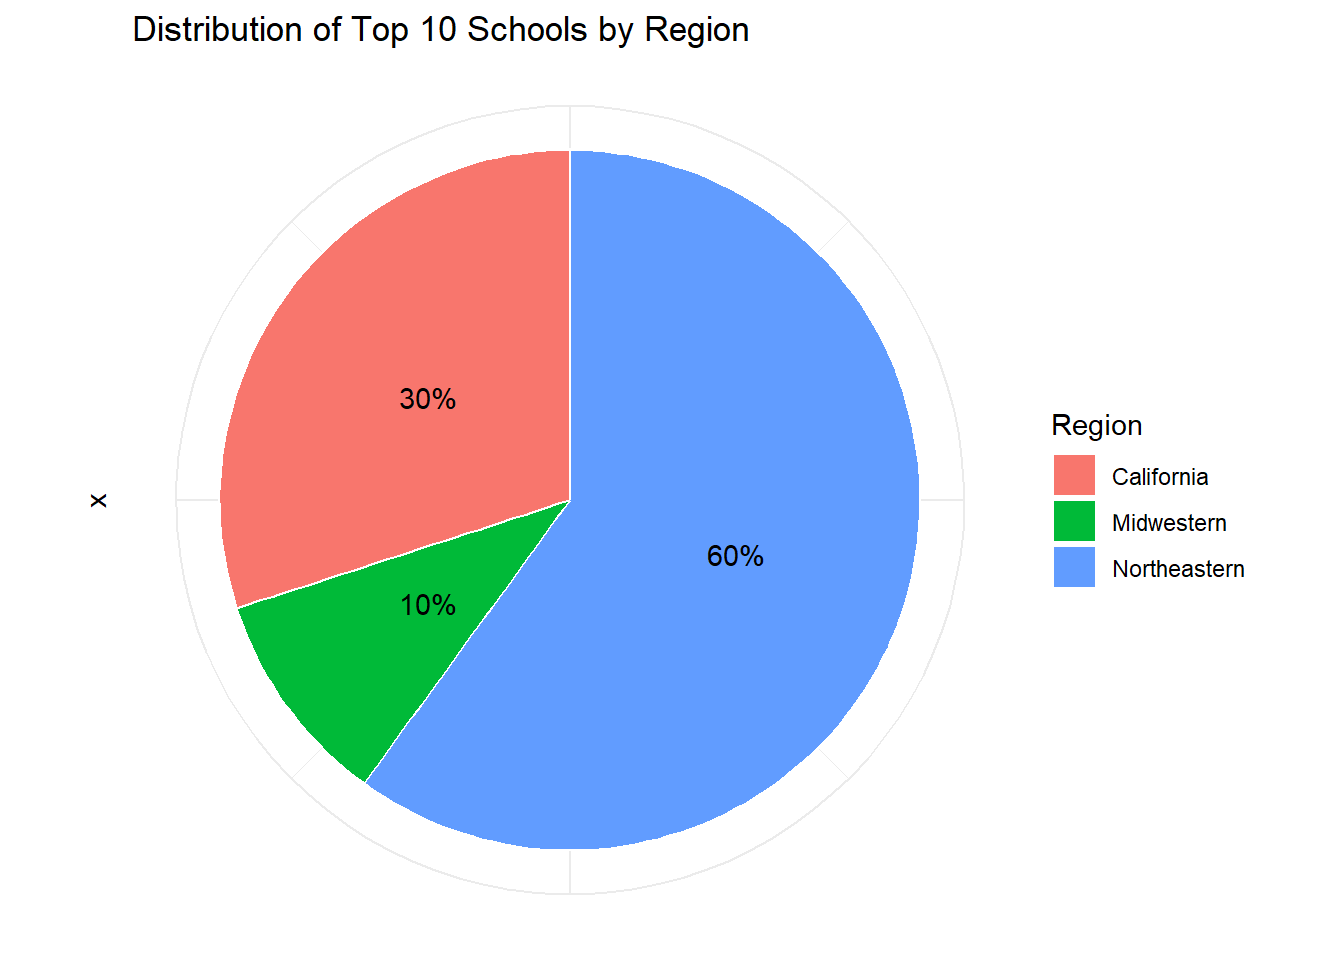
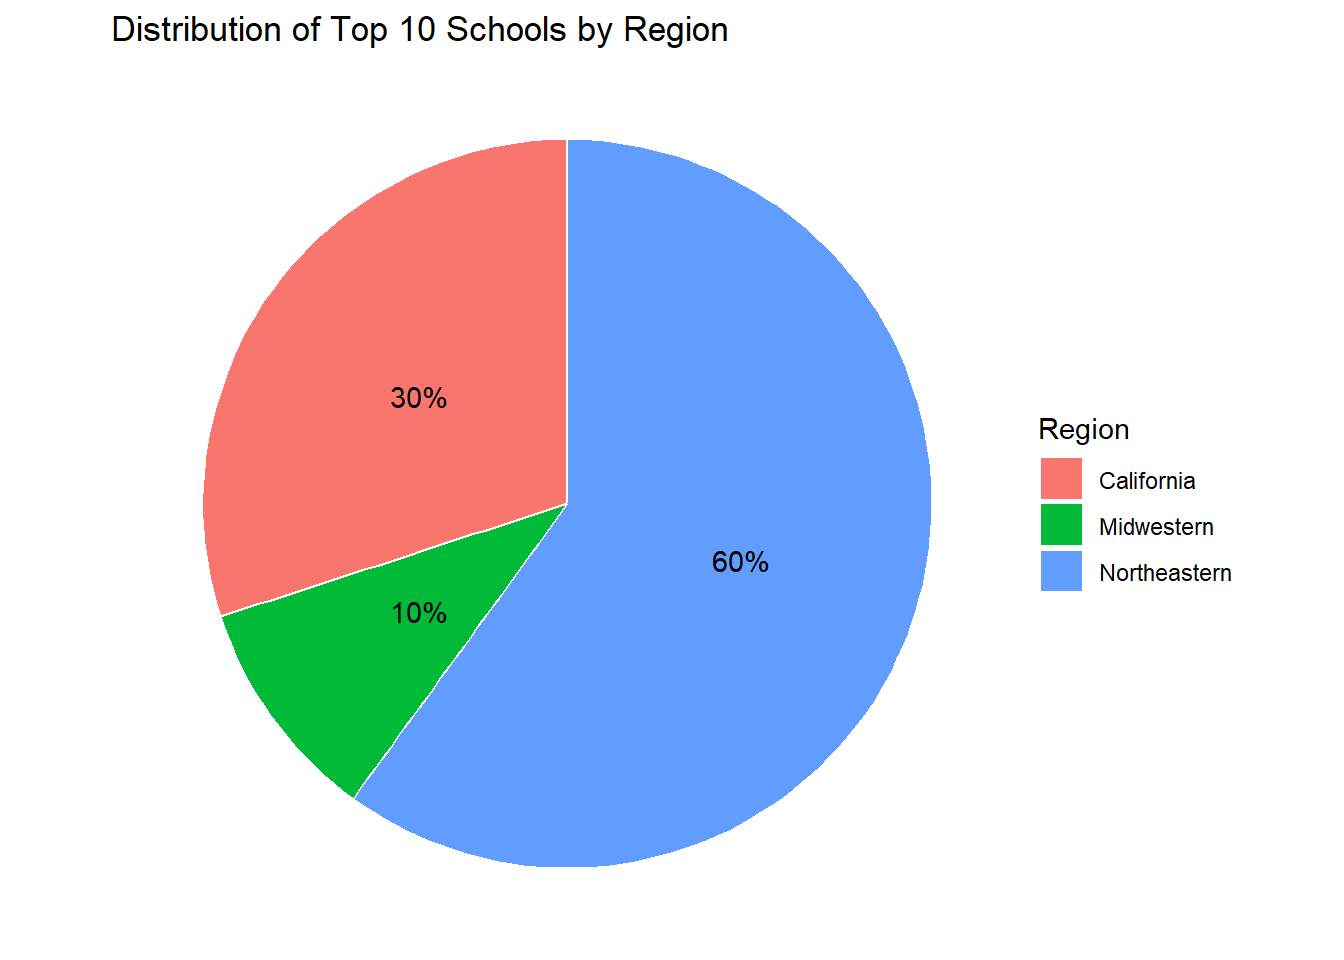
Minor fixes

diff --git a/docs/results.html b/docs/results.html
@@ -452,7 +452,7 @@ code span.wa { color: #60a0b0; font-weight: bold; font-style: italic; } /* Warni
 <span id="cb9-10"><a href="#cb9-10" aria-hidden="true" tabindex="-1"></a>  <span class="fu">coord_polar</span>(<span class="at">theta =</span> <span class="st">"y"</span>) <span class="sc">+</span></span>
 <span id="cb9-11"><a href="#cb9-11" aria-hidden="true" tabindex="-1"></a>  <span class="fu">geom_text</span>(<span class="fu">aes</span>(<span class="at">label =</span> percentage), <span class="at">position =</span> <span class="fu">position_stack</span>(<span class="at">vjust =</span> <span class="fl">0.5</span>)) <span class="sc">+</span></span>
 <span id="cb9-12"><a href="#cb9-12" aria-hidden="true" tabindex="-1"></a>  <span class="fu">ggtitle</span>(<span class="st">"Distribution of Top 10 Schools by Region"</span>) <span class="sc">+</span></span>
-<span id="cb9-13"><a href="#cb9-13" aria-hidden="true" tabindex="-1"></a>  <span class="fu">theme_minimal</span>()<span class="sc">+</span></span>
+<span id="cb9-13"><a href="#cb9-13" aria-hidden="true" tabindex="-1"></a>  <span class="fu">theme_void</span>()<span class="sc">+</span></span>
 <span id="cb9-14"><a href="#cb9-14" aria-hidden="true" tabindex="-1"></a>    <span class="fu">theme</span>(<span class="at">axis.text.x =</span> <span class="fu">element_blank</span>(), <span class="at">axis.title.x =</span> <span class="fu">element_blank</span>())</span></code><button title="Copy to Clipboard" class="code-copy-button"><i class="bi"></i></button></pre></div>
 </details>
 <div class="cell-output-display">
@@ -498,7 +498,7 @@ code span.wa { color: #60a0b0; font-weight: bold; font-style: italic; } /* Warni
 <span id="cb10-29"><a href="#cb10-29" aria-hidden="true" tabindex="-1"></a>  <span class="fu">coord_polar</span>(<span class="at">theta =</span> <span class="st">"y"</span>) <span class="sc">+</span></span>
 <span id="cb10-30"><a href="#cb10-30" aria-hidden="true" tabindex="-1"></a>  <span class="fu">geom_text</span>(<span class="fu">aes</span>(<span class="at">label =</span> percentage), <span class="at">position =</span> <span class="fu">position_stack</span>(<span class="at">vjust =</span> <span class="fl">0.5</span>)) <span class="sc">+</span></span>
 <span id="cb10-31"><a href="#cb10-31" aria-hidden="true" tabindex="-1"></a>  <span class="fu">ggtitle</span>(<span class="st">"Distribution of School Types in Northeast Region"</span>) <span class="sc">+</span></span>
-<span id="cb10-32"><a href="#cb10-32" aria-hidden="true" tabindex="-1"></a>  <span class="fu">theme_minimal</span>()<span class="sc">+</span></span>
+<span id="cb10-32"><a href="#cb10-32" aria-hidden="true" tabindex="-1"></a>  <span class="fu">theme_void</span>()<span class="sc">+</span></span>
 <span id="cb10-33"><a href="#cb10-33" aria-hidden="true" tabindex="-1"></a>    <span class="fu">theme</span>(<span class="at">axis.text.x =</span> <span class="fu">element_blank</span>(), <span class="at">axis.title.x =</span> <span class="fu">element_blank</span>())</span></code><button title="Copy to Clipboard" class="code-copy-button"><i class="bi"></i></button></pre></div>
 </details>
 <div class="cell-output-display">
